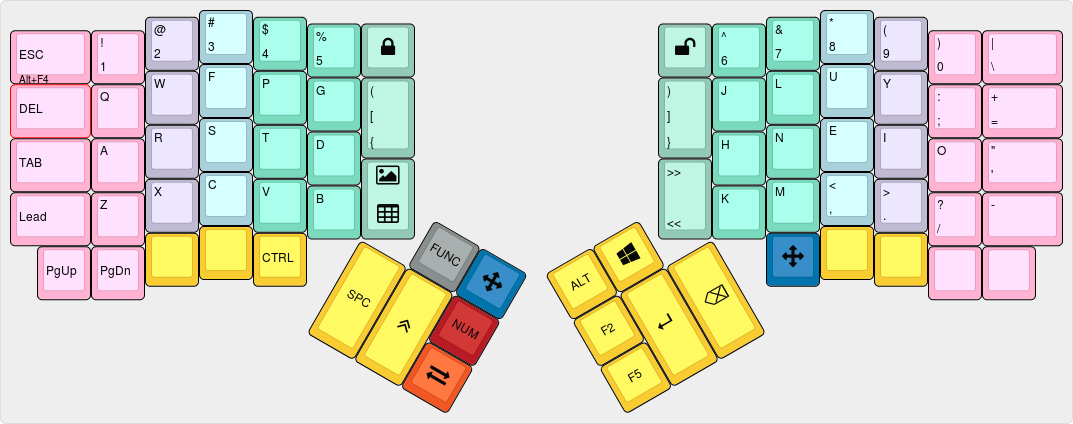
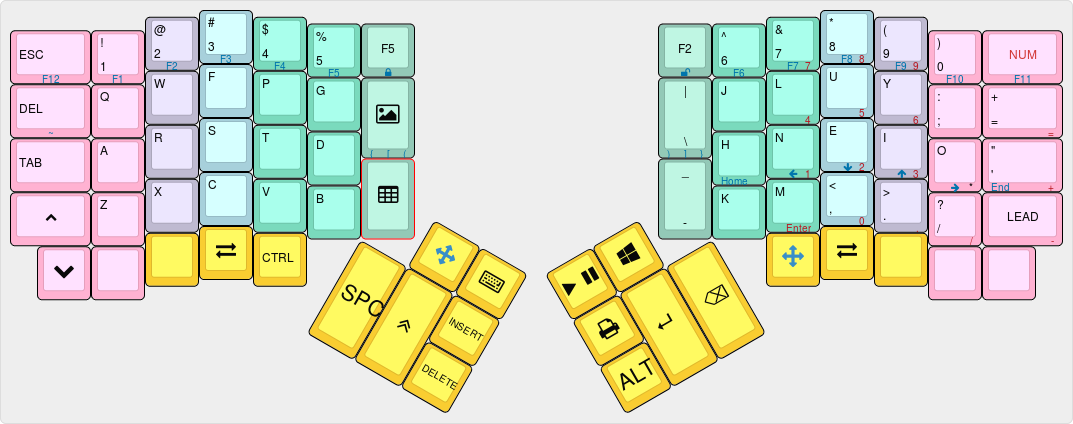
changes to bring ergodox in line with keyboardio

diff --git a/keymap.c b/keymap.c
@@ -60,59 +60,59 @@ const uint16_t PROGMEM keymaps[][MATRIX_ROWS][MATRIX_COLS] = {
 /* Keymap 0: Basic layer
  *
  * ,--------------------------------------------------.           ,--------------------------------------------------.
- *|ESC/AltF4|   1  |  2   |   3  |   4  |   5  |ScrLCK|           |Unlock|   6  |   7  |   8  |   9  |   0  |    \   |
+ *|ESC/AltF4|   1  |  2   |   3  |   4  |   5  |  F5  |           |  F2  |   6  |   7  |   8  |   9  |   0  |  NUM   |
  * |--------+------+------+------+------+-------------|           |------+------+------+------+------+------+--------|
- * |  Del   |   Q  |   W  |   F  |   P  |   G  |  (   |           |   )  |   J  |   L  |   U  |   Y  | ;/:  |    =   |
- * |--------+------+------+------+------+------|  [   |           |   ]  |------+------+------+------+------+--------|
+ * |  Del   |   Q  |   W  |   F  |   P  |   G  | Snip |           |  |   |   J  |   L  |   U  |   Y  | ;/:  |    =   |
+ * |--------+------+------+------+------+------|      |           |  \   |------+------+------+------+------+--------|
  * |Tab/NMBR|   A  |   R  |   S  |   T  |   D  |------|           |------|   H  |   N  |   E  |   I  |   O  |    '   |
- * |--------+------+------+------+------+------| Snip |           |  >>  |------+------+------+------+------+--------| 
- * |  Lead  |   Z  |  X   |  C   |   V  |   B  |Divvy |           |  <<  |   K  |   M  |   ,  |   .  |   /  |   -/_  |
+ * |--------+------+------+------+------+------|Divvy |           |  _   |------+------+------+------+------+--------| 
+ * |  PgUp  |   Z  |  X   |  C   |   V  |   B  |      |           |  -   |   K  |   M  |   ,  |   .  |   /  |  LEAD  |
  * `--------+------+------+------+------+-------------'           `-------------+------+------+------+------+--------'
- *   | PgUp |PgDwn |      |      | LCtrl|                                       | MVMNT|      |      |      |      |
+ *   | PgDwn|      |      |SWPHND| LCtrl|                                       | MVMNT|SWPHND|      |      |      |
  *   `----------------------------------'                                       `----------------------------------'
  *                                        ,-------------.       ,-------------.
- *                                        | FUNC | MVMNT|       | LAlt | LGui |
+ *                                        | MVMNT|QWERTY|       |Play/P| LGui |
  *                                 ,------|------|------|       |------+--------+------.
- *                                 |      |      | NMBR |       |  F2  |        |      |
+ *                                 |      |      |Insert|       |PrtScn|        |      |
  *                                 | Space|Shift |------|       |------| Enter  | BkSp |
- *                                 |      |      |SWPHND|       |  F5  |        |      |
+ *                                 |      |      |Delete|       | LAlt |        |      |
  *                                 `--------------------'       `----------------------'
  */
 // If it accepts an argument (i.e, is a function), it doesn't need KC_.
 // Otherwise, it needs KC_*
 [BASE] = LAYOUT_ergodox(  // layer 0 : default
         // left hand
-        TD(CT_ESCF4),       KC_1,      KC_2,     KC_3,      KC_4,       KC_5,        LGUI(KC_L),
-        KC_DELT,            KC_Q,      KC_W,     KC_F,      KC_P,       KC_G,        TD(CT_LBP),
+        TD(CT_ESCF4),       KC_1,      KC_2,     KC_3,      KC_4,       KC_5,        KC_F5,
+        KC_DELT,            KC_Q,      KC_W,     KC_F,      KC_P,       KC_G,        MEH(KC_S),
         TD(CT_TA),          KC_A,      KC_R,     KC_S,      KC_T,       KC_D,
-        KC_LEAD,            KC_Z,      KC_X,     KC_C,      KC_V,       KC_B,        TD(CT_WINDOWS),
-        KC_PGUP,            KC_PGDN,   KC_LALT,  KC_NO,     KC_LCTRL,
-                                                                        OSL(FUNC),  TG(MVMNT),
-                                                                                    TG(NMBR),
-                                                            KC_SPC,     KC_LSHIFT,  TG(SWPHND),
+        KC_PGUP,            KC_Z,      KC_X,     KC_C,      KC_V,       KC_B,        MEH(KC_W),
+        KC_PGDN,            KC_NO,     KC_NO,    TG(SWPHND),F(F_CTRL),
+                                                                        OSL(MVMNT), TG(MVMNT),
+                                                                                    KC_INSERT,
+                                                            KC_SPC,     KC_LSHIFT,  KC_DELT,
         // right hand'
-             ALTG(KC_DELT),  KC_6,   KC_7,     KC_8,      KC_9,     KC_0,               KC_BSLS,
-             TD(CT_RBP),     KC_J,   KC_L,     KC_U,      KC_Y,     TD(CT_COL),         KC_EQL,
+             KC_F2,          KC_6,   KC_7,     KC_8,      KC_9,     KC_0,               TG(NMBR),
+             KC_BSLS,        KC_J,   KC_L,     KC_U,      KC_Y,     TD(CT_COL),         KC_EQL,
                              KC_H,   KC_N,     KC_E,      KC_I,     KC_O,               KC_QUOT,
-             TD(CT_SWITCH),     KC_K,   KC_M,  KC_COMM,   KC_DOT,   KC_SLSH,            TD(CT_UNDER),
-                                     MO(MVMNT),KC_NO ,    KC_NO,    KC_NO,              KC_NO,
-             F(F_ALT),      KC_LGUI,
-             KC_F2,
-             KC_F5,         KC_ENT, KC_BSPC
+             TD(CT_UNDER),   KC_K,   KC_M,    KC_COMM,   KC_DOT,   KC_SLSH,             KC_LEAD,
+                                     MO(MVMNT),TG(SWPHND),KC_NO,    KC_NO,              KC_NO,
+             KC_MPLY,      KC_LGUI,
+             KC_PSCR,
+             F(F_ALT),      KC_ENT, KC_BSPC
     ),
 
 /* Keymap 1: Arrow layer
  *
  * ,-----------------------------------------------------.           ,-----------------------------------------------------.
- * |           |      |      |      |      |      |      |           |      |      |      |      |      |      |           |
+ * |   F12     |  F1  |  F2  |  F3  |  F4  |  F5  |ScrLCK|           |Unlock|  F6  |  F7  |  F8  |  F9  | F10  |     F11   |
  * |-----------+------+------+------+------+-------------|           |------+------+------+------+------+------+-----------|
- * |           |  !   |  @   |  #   |  $   |  %   |      |           |      |  ^   |  &   |  *   |  ~   |  `   |           |
- * |-----------+------+------+------+------+------|      |           |      |------+------+------+------+------+-----------|
+ * |    `      |      |      |      |      |      |  (   |           |  )   |      |      |      |      |      |           |
+ * |-----------+------+------+------+------+------|  [   |           |  ]   |------+------+------+------+------+-----------|
  * |           |Insert| Home | PgUp | Vol+ | Play |------|           |------| Home | Left | Down | Up   | Rght |  End      |
  * |-----------+------+------+------+------+------|      |           |      |------+------+------+------+------+-----------|
  * |           | Del  | End  | PgDn | Vol- | Next |      |           |      |      |      |      |      |      |           |
  * `-----------+------+------+------+------+-------------'           `-------------+------+------+------+------+-----------'
- *      |PrnScn|      |      |      |      |                                       |      |      |      |      |      |
+ *      |PrnScn|      |      |      |      |                                       |      |      |      |      | RESET|
  *      `----------------------------------'                                       `----------------------------------'
  *                                         ,-------------.           ,-------------.
  *                                         |      |      |           |      |      |
@@ -125,8 +125,8 @@ const uint16_t PROGMEM keymaps[][MATRIX_ROWS][MATRIX_COLS] = {
 
 [MVMNT] = LAYOUT_ergodox(
 // left hand
- KC_TRNS ,KC_TRNS     ,KC_TRNS         ,KC_TRNS          ,KC_TRNS    ,KC_TRNS    ,KC_TRNS
-,KC_TRNS ,KC_EXLM     ,KC_AT           ,KC_HASH          ,KC_DLR     ,KC_PERC    ,KC_TRNS
+ KC_F12  ,KC_F1       ,KC_F2           ,KC_F3            ,KC_F4      ,KC_F5      ,LGUI(KC_L)
+,KC_GRV  ,KC_TRNS     ,KC_TRNS         ,KC_TRNS          ,KC_TRNS    ,KC_TRNS    ,TD(CT_LBP)
 ,KC_TRNS ,KC_INSERT   ,KC_HOME         ,KC_PGUP          ,KC_VOLU    ,KC_MPLY
 ,KC_TRNS ,KC_DEL      ,KC_END          ,KC_PGDN          ,KC_VOLD    ,KC_MNXT    ,KC_TRNS
 ,KC_PSCR ,KC_TRNS     ,KC_TRNS         ,KC_TRNS          ,KC_TRNS
@@ -136,11 +136,11 @@ const uint16_t PROGMEM keymaps[][MATRIX_ROWS][MATRIX_COLS] = {
                                                       ,KC_TRNS        ,KC_TRNS   ,KC_TRNS
 
                                                                 // right hand
-                                                               ,KC_TRNS ,KC_TRNS ,KC_TRNS       ,KC_TRNS       ,KC_TRNS          ,KC_TRNS  ,KC_TRNS
-                                                               ,KC_TRNS ,KC_CIRC ,KC_AMPR       ,KC_ASTR       ,KC_TILD          ,KC_GRV   ,KC_TRNS
-                                                                        ,KC_HOME ,KC_LEFT       ,KC_DOWN       ,KC_UP            ,KC_RGHT  ,KC_END
-                                                               ,KC_TRNS ,KC_TRNS ,KC_TRNS       ,KC_TRNS       ,KC_TRNS          ,KC_TRNS  ,KC_TRNS
-                                                                                 ,KC_TRNS       ,KC_TRNS       ,KC_TRNS          ,KC_TRNS  ,KC_TRNS
+                                                               ,ALTG(KC_DELT) ,KC_F6   ,KC_F7         ,KC_F8         ,KC_F9            ,KC_F10   ,KC_F11
+                                                               ,TD(CT_RBP)    ,KC_TRNS ,KC_TRNS       ,KC_TRNS       ,KC_TRNS          ,KC_TRNS   ,KC_TRNS
+                                                                              ,KC_HOME ,KC_LEFT       ,KC_DOWN       ,KC_UP            ,KC_RGHT  ,KC_END
+                                                               ,KC_TRNS       ,KC_TRNS ,KC_TRNS       ,KC_TRNS       ,KC_TRNS          ,KC_TRNS  ,KC_TRNS
+                                                                                       ,KC_TRNS       ,KC_TRNS       ,KC_TRNS          ,KC_TRNS  ,RESET
 
                                                                ,KC_TRNS ,KC_TRNS
                                                                ,KC_TRNS
@@ -195,15 +195,15 @@ const uint16_t PROGMEM keymaps[][MATRIX_ROWS][MATRIX_COLS] = {
 /* Keymap 3: Number Pad Layer
  *
  * ,---------------------------------------------------.           ,--------------------------------------------------.
- * |         |      |      |      |      |      |      |           |      |      |      |      |      |      |        |
+ * |         |      |      |      |      |      |      |           |      |      |   7  |   8  |   9  |      |        |
  * |---------+------+------+------+------+------+------|           |------+------+------+------+------+------+--------|
- * |         |      |      |      |      |      |      |           |      |      |   7  |   8  |   9  |   *  |   =    |
+ * |         |      |      |      |      |      |      |           |      |      |   4  |   5  |   6  |      |   =    |
  * |---------+------+------+------+------+------|      |           |      |------+------+------+------+------+--------|
- * |         |      |      |      |      |      |------|           |------|      |   4  |   5  |   6  |   +  |        |
+ * |         |      |      |      |      |      |------|           |------|      |   1  |   2  |   3  |   *  |   +    |
  * |---------+------+------+------+------+------|      |           |      |------+------+------+------+------+--------|
- * |         |      |      |      |      |      |      |           |      |      |   1  |   2  |   3  |   /  |   -    |
+ * |         |      |      |      |      |      |      |           |      |      | Enter|   0  |   .  |   /  |   -    |
  * `---------+------+------+------+------+-------------'           `-------------+------+------+------+------+--------'
- *   |       |      |      |      |      |                                       |      |   0  |   .  | Enter|      |
+ *   |       |      |      |      |      |                                       |      |      |      |      |      |
  *   `-----------------------------------'                                       `----------------------------------'
  *                                        ,-------------.       ,-------------.
  *                                        |      |      |       |      |      |
@@ -227,11 +227,11 @@ const uint16_t PROGMEM keymaps[][MATRIX_ROWS][MATRIX_COLS] = {
                                                KC_TRNS,
                                KC_TRNS,KC_TRNS,KC_TRNS,
        // right hand
-       KC_TRNS, KC_TRNS,   KC_TRNS,  KC_TRNS,   KC_TRNS,   KC_TRNS,  KC_TRNS,
-       KC_TRNS, KC_TRNS,  KC_7,   KC_8,    KC_9,    KC_ASTR, KC_EQL,
-                KC_TRNS, KC_4,   KC_5,    KC_6,    KC_PLUS, KC_TRNS,
-       KC_TRNS, KC_TRNS, KC_1,   KC_2,     KC_3,     KC_SLASH,  KC_MINS,
-                         KC_TRNS, KC_0,  KC_DOT,   KC_KP_ENTER,  KC_TRNS,
+       KC_TRNS, KC_TRNS, KC_7,        KC_8,   KC_9,     KC_TRNS,  KC_TRNS,
+       KC_TRNS, KC_TRNS, KC_4,        KC_5,   KC_6,      KC_TRNS, KC_EQL,
+                KC_TRNS, KC_1,        KC_2,   KC_3,      KC_ASTR, KC_PLUS,
+       KC_TRNS, KC_TRNS, KC_KP_ENTER, KC_0,   KC_DOT,    KC_SLASH,  KC_MINS,
+                         KC_TRNS,   KC_TRNS,  KC_TRNS,   KC_TRNS,  KC_TRNS,
        KC_TRNS, KC_TRNS,
        KC_TRNS,
        KC_TRNS, KC_TRNS, KC_TRNS

diff --git a/NEWS.md b/NEWS.md
@@ -1,6 +1,12 @@
 <!-- -*- mode: markdown; fill-column: 8192 -*- -->
 
-## v 1.8
+## v1.9
+
+*2019-02-08*
+Changes to bring in line differences between Keyboardio and Ergodox.
+
+
+## v1.8
 
 Changes were influenced by one week's worth of logging data.
 
